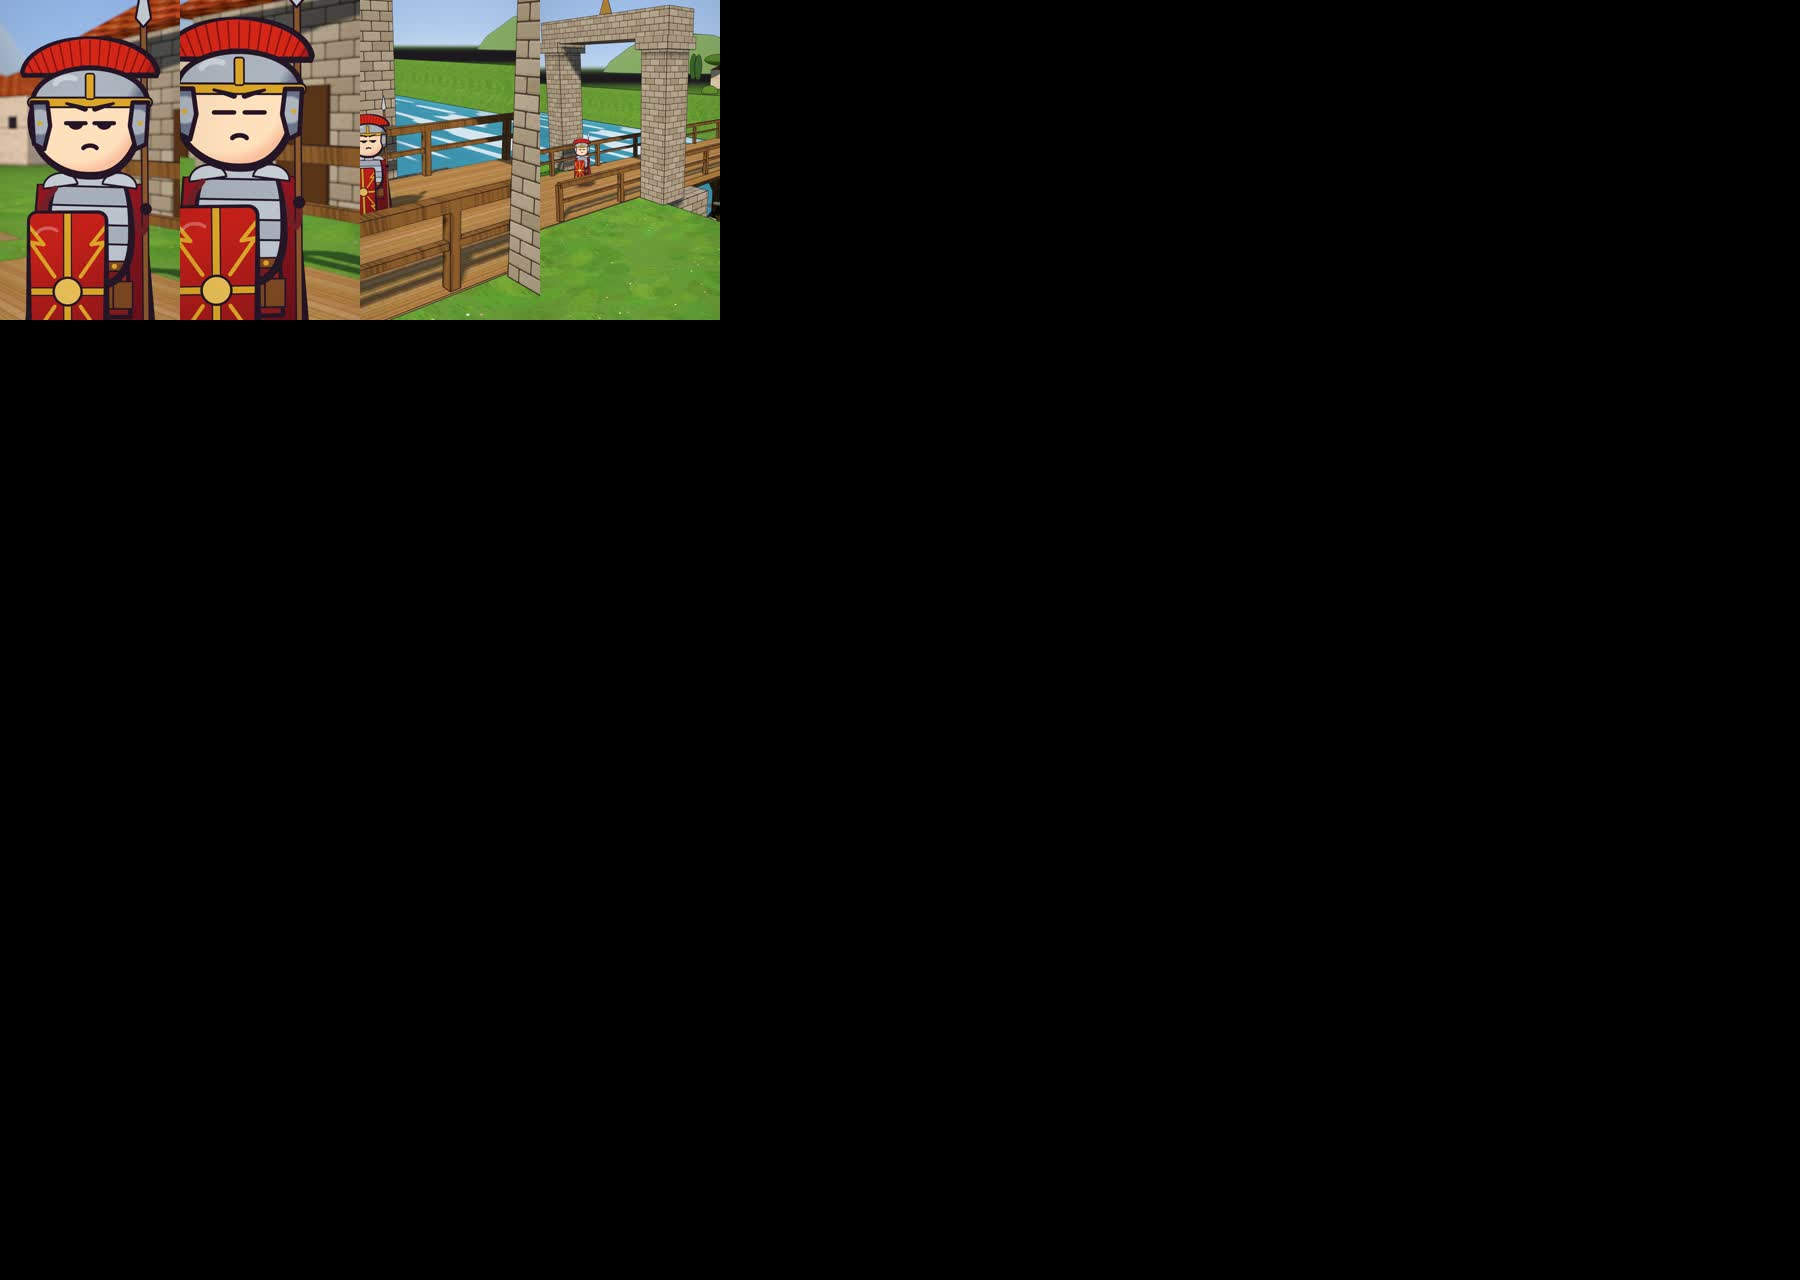
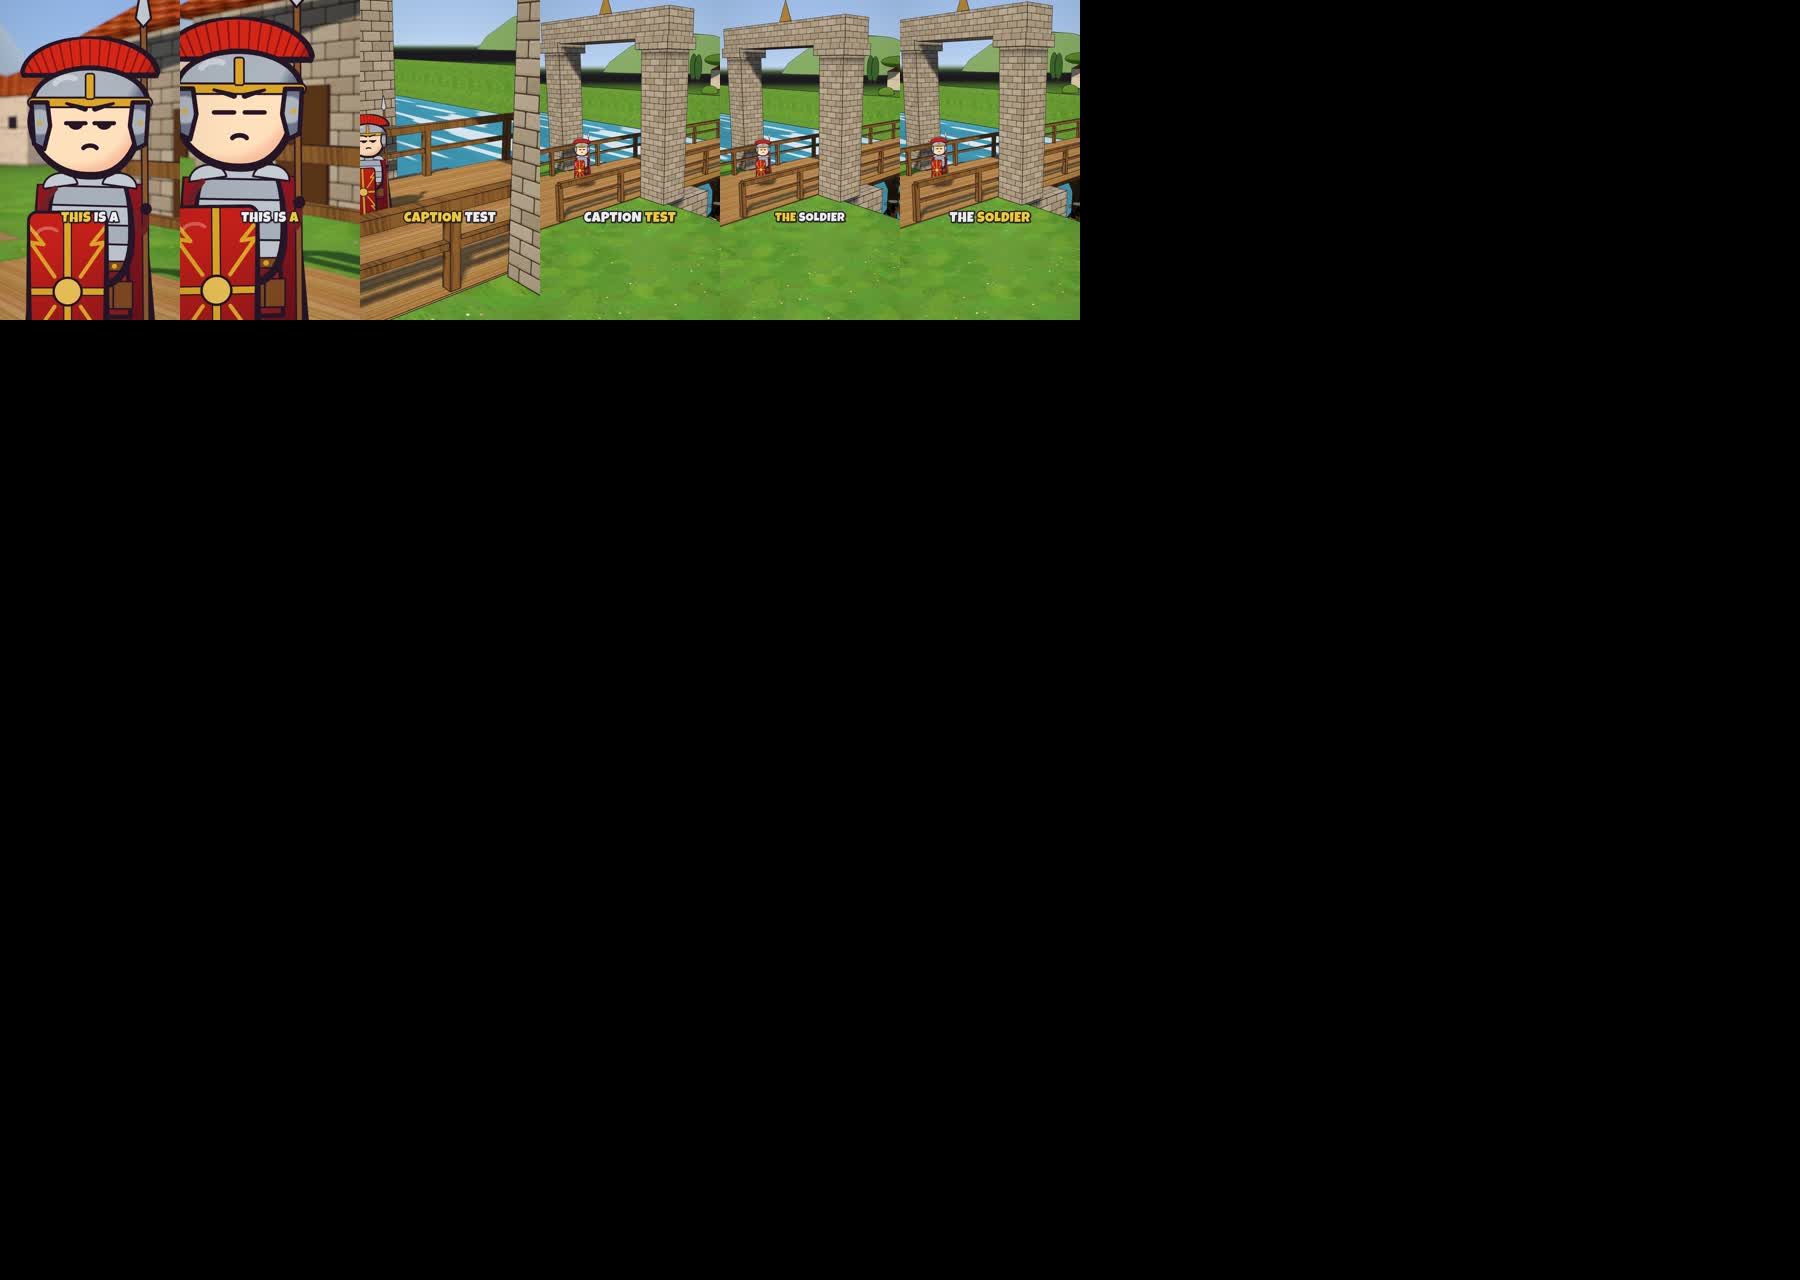
render-bot: _ci-test rendered

diff --git a/projects/_ci-test/out/RESULT.md b/projects/_ci-test/out/RESULT.md
@@ -1,22 +1,24 @@
 # Render result: CI self-test
 
 - MP4: no release (release: no) - see the run artifacts
-- length: 2.000000 s, size: 3596938 bytes
-- run: https://github.com/nuelyosia-cpt/skill_kit_main/actions/runs/43969258672
+- length: 3.000000 s, size: 5089239 bytes
+- run: https://github.com/nuelyosia-cpt/skill_kit_main/actions/runs/43971117993
 
 ## Mix and QA log
 
 ```
-frames: 60 of 592
+frames: 90 of 592
 wrote music.wav + sfx.wav (19.73 s, 592 frames). Next: python mix.py voice.mp3 music.wav sfx.wav
 voice  gated RMS  -28.88 dBFS   peak -21.18 dBFS
 music  gain 0.216   level vs voice -6.02 dB (target -6.0)
 sfx    gain 0.096   level vs voice -19.99 dB (target <= -6.0)   [peak-capped]   peak -24.28 dBFS vs cap -24.28
 wrote mix_raw.wav  (19.73 s)
+wrote ./work/captions.ass: 18 caption chunks, 40 words, 0.00-19.41 s
 stream|width=1080|height=1920|r_frame_rate=30/1|
 stream|r_frame_rate=0/0
-format|duration=2.000000
+format|duration=3.000000
 --- QA (empty = no black/frozen spans)
-    I:         -13.6 LUFS
+    I:         -14.2 LUFS
+captions: ON (40 events)
 out/_ci-test.mp4
 ```

diff --git a/projects/_ci-test/out/STATUS.md b/projects/_ci-test/out/STATUS.md
@@ -2,6 +2,6 @@
 
 - project: _ci-test
 - job: finish
-- commit: 943565191df8d5572a36373032203e968a818041
-- run: https://github.com/nuelyosia-cpt/skill_kit_main/actions/runs/43969258672
-- time (UTC): 2026-11-16 22:26:13
+- commit: 23f8050f261f698d3899beac82bbc12dd2121b4a
+- run: https://github.com/nuelyosia-cpt/skill_kit_main/actions/runs/43971117993
+- time (UTC): 2026-11-16 22:38:29
